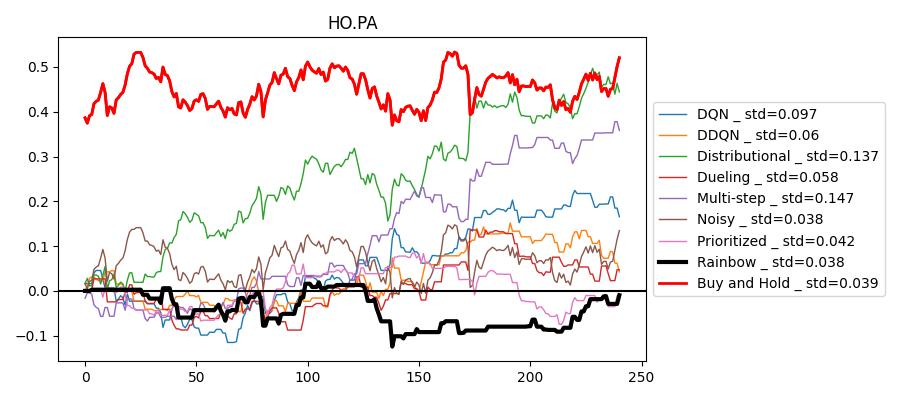
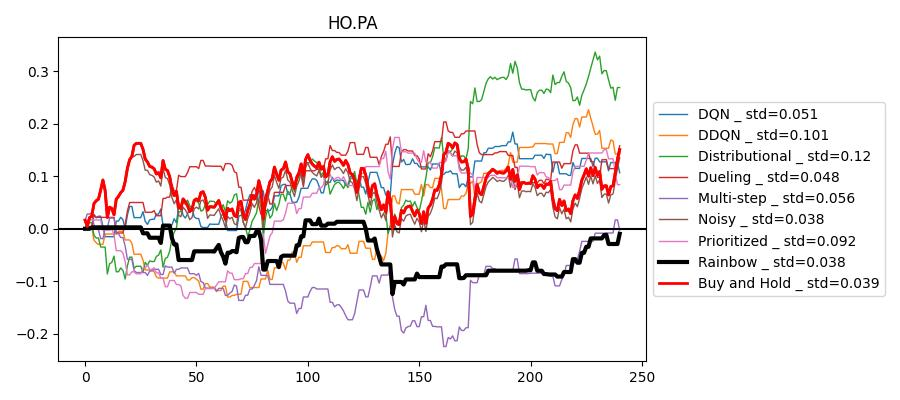
modified:   equallyweighted.jpeg 	modified:   main.py

diff --git a/main.py b/main.py
@@ -249,7 +249,7 @@ if __name__ == '__main__':
         leg.append(f"{all_algo_ordered[-1]} _ std={round(std_list[-1],3)}")
 
         # Add the buy and hold
-        buy_and_hold = test_returns[ticker].cumsum()[50:].reset_index(drop=True) # 50 because of the K in the algos
+        buy_and_hold = test_returns[ticker][50:].cumsum().reset_index(drop=True) # 50 because of the K in the algos
         std_list.append(buy_and_hold.std())
         plt.plot(buy_and_hold, color='red', linewidth=2)
         leg.append(f"Buy and Hold _ std={round(std_list[-1],3)}")
@@ -281,7 +281,7 @@ if __name__ == '__main__':
     plt.plot(equipondere_index, color='black', linewidth=3, label=f"{all_algo_ordered[-1]} _ std={round(std_list[-1],3)}")
 
     # And finally buy and hold
-    buy_and_hold = test_returns.mean(axis=1).cumsum()[50:].reset_index(drop=True) # 50 because of the K in the algos
+    buy_and_hold = test_returns.mean(axis=1)[50:].cumsum().reset_index(drop=True) # 50 because of the K in the algos
     std_list.append(buy_and_hold.std())
     plt.plot(buy_and_hold, color='red', linewidth=2, label=f"Buy and Hold _ std={round(std_list[-1],3)}")
 
